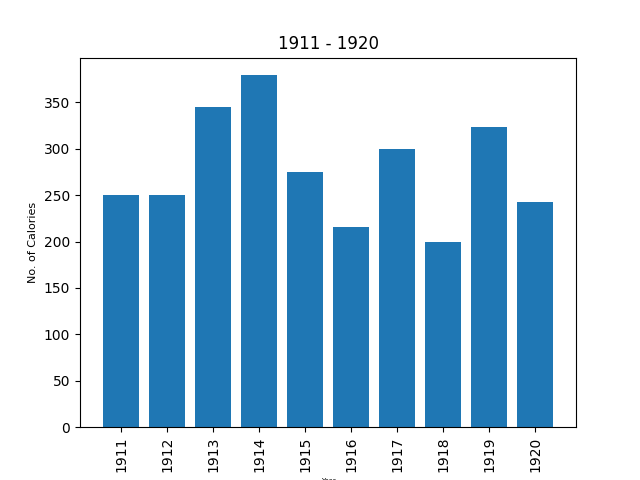
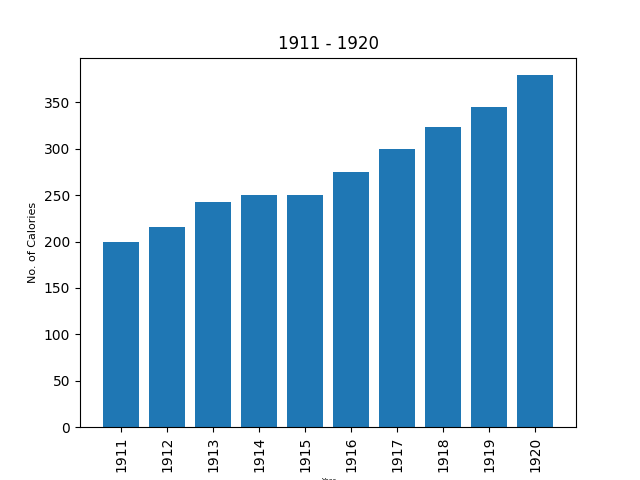
NEWNW

Changed region(s): [[0.1562, 0.1562, 0.5938, 0.5312], [0.6562, 0.1562, 0.875, 0.5312]]

diff --git a/dataExcel.py b/dataExcel.py
@@ -15,24 +15,20 @@ newData.insert(0, 'Years', moveColumn) """
 del newData["Period"]
 print(newData)
 
-
-newData_sorted = newData.sort_values(by=["Calories"], ascending=True)
 newData1 = newData.loc[(newData.Years >= 1900) & (newData.Years <= 1910)]
 newData2 = newData.loc[(newData.Years >= 1911) & (newData.Years <= 1920)]
 newData3 = newData.loc[(newData.Years >= 1921) & (newData.Years <= 1930)] 
 
-
 def first():
     print("Total: ", newData1["Calories"].sum())
     print("Mean: ", newData1["Calories"].mean())
-    newData_sorted = newData.sort_values(by="Calories", ascending=True)
-    ps = newData1['Calories']
+    ps = newData1['Calories'].sort_values(ignore_index=True)
     index = newData1['Years']
     plt.xlabel('Year', fontsize=5)
     plt.ylabel('No. of Calories', fontsize=8)
-    plt.xticks(newData_sorted.index, index, fontsize=10, rotation=90)
+    plt.xticks(ps.index, index, fontsize=10, rotation=90)
     plt.title('1900 - 1910')
-    plt.bar(newData_sorted.index, newData_sorted.values)
+    plt.bar(ps.index, ps.values)
     plt.savefig("1900 - 1910")
     plt.show()
 
@@ -40,7 +36,7 @@ def first():
 def second():
     print("Total: ", newData2["Calories"].sum())
     print("Mean: ", newData2["Calories"].mean())
-    ps = newData2['Calories']
+    ps = newData2['Calories'].sort_values(ignore_index=True)
     index = newData2['Years']
     plt.xlabel('Year', fontsize=5)
     plt.ylabel('No. of Calories', fontsize=8)
@@ -54,7 +50,7 @@ def second():
 def third():
     print("Total: ", newData3["Calories"].sum())
     print("Mean: ", newData3["Calories"].mean())
-    ps = newData3["Calories"]
+    ps = newData3["Calories"].sort_values(ignore_index=True)
     index = newData3['Years']
     plt.xlabel('Year', fontsize=5)
     plt.ylabel('No. of Calories', fontsize=8)
